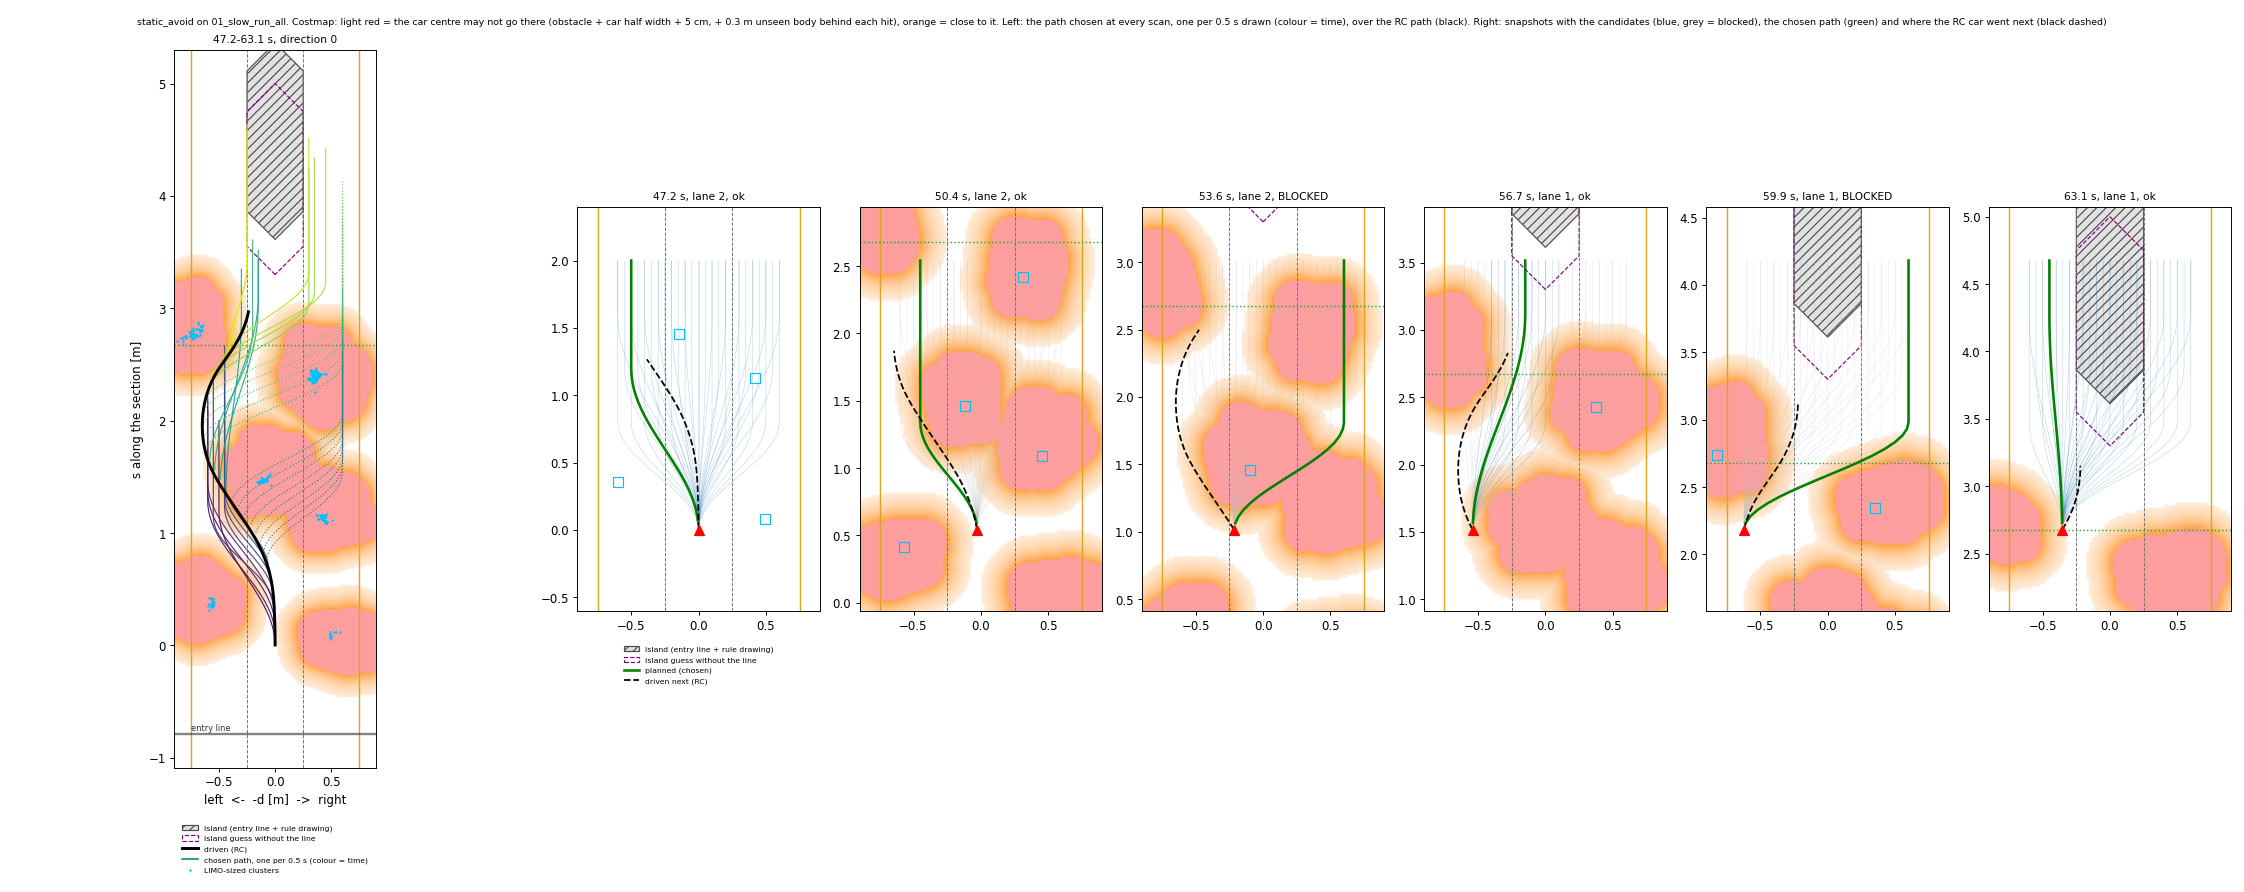
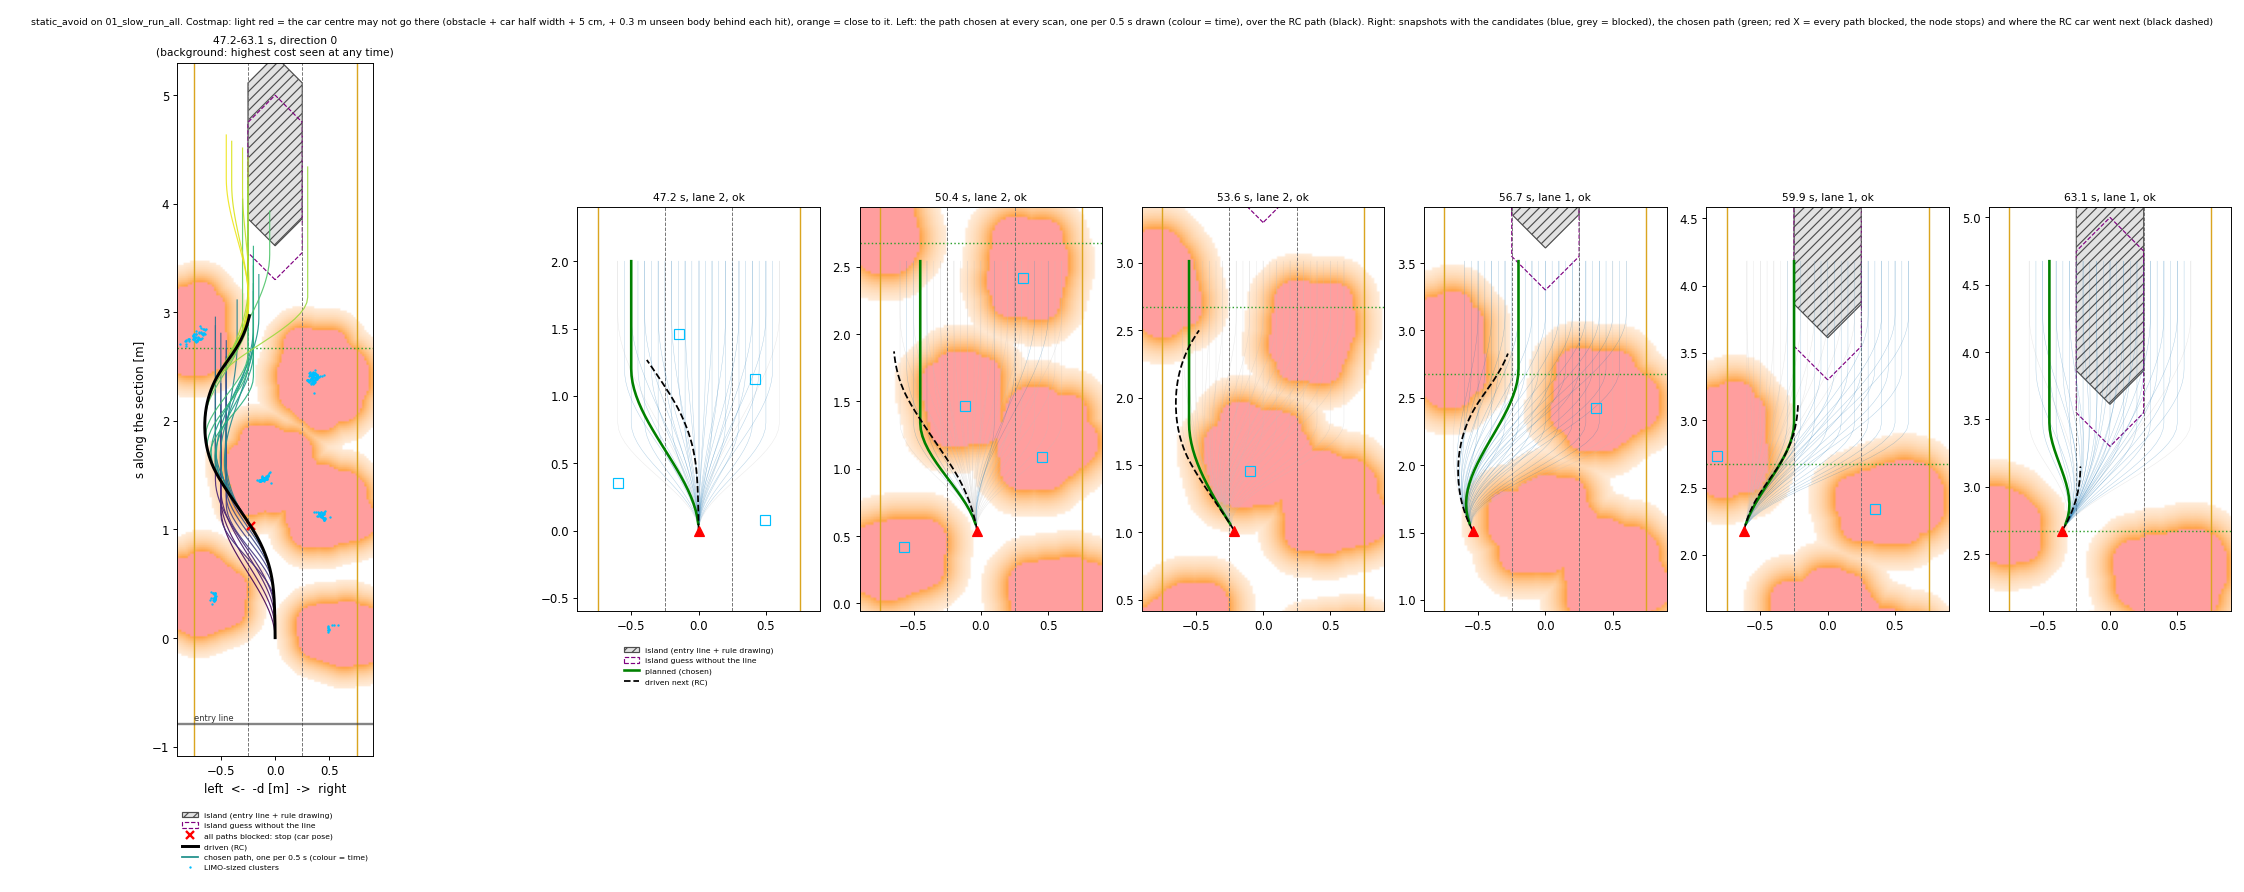
Enhance static obstacle avoidance parameters and replay tool functionality

diff --git a/ros2_ws/src/clothoid_lidar/clothoid_lidar/static_avoid.py b/ros2_ws/src/clothoid_lidar/clothoid_lidar/static_avoid.py
@@ -30,6 +30,7 @@ class AvoidParams:
     # geometry (m)
     lane_width: float = 0.50          # line centre to centre, our track; rules say 0.55
     car_half_width: float = 0.11      # LIMO 0.22 m wide
+    car_half_length: float = 0.16     # LIMO 0.32 m long, base_link in the middle
     footprint_offsets: Tuple[float, float, float] = (-0.1, 0.0, 0.1)  # circle centres along the car
     safety: float = 0.05              # extra clearance to obstacles
     line_margin: float = 0.03         # car side to yellow outer line
@@ -80,8 +81,19 @@ class AvoidParams:
     # safety margin (an obstacle seen late, or passed close), lethal cells there only cost, so the
     # car can still pick the way out instead of freezing
     lethal_free_start: float = 0.25
+    # A lethal cell only forbids a path if it is closer than the car needs to swerve clear of it at
+    # full lock; further ones are a large cost, the car can still turn away on a later plan (10 Hz).
+    # escape = sqrt(2 R y - y^2) + margin: R the rear-axle radius at full lock (car 7 / limo2
+    # measured 0.45~0.49 m with steering_scale 1.06), y the sideways move that clears a LIMO
+    # straight ahead (car half width + LIMO half width + safety), margin for the replanning period,
+    # the look-ahead and the car's front overhang.
+    min_turn_radius: float = 0.48
+    escape_offset: float = 0.30
+    escape_margin: float = 0.15
+    w_lethal_far: float = 400.0       # x share of path samples lethal beyond the escape distance
     w_obstacle: float = 1.0
     w_centre: float = 40.0            # per m^2 off the nearest lane centre
+    w_outer: float = 200.0            # per m (path mean) beyond the lane 1 / lane 3 centre, outwards
     w_lateral: float = 2.0            # per m of offset change
     w_short: float = 0.5              # per 1/m of transition length
     w_hysteresis: float = 4.0         # per m away from the last chosen end offset
@@ -305,11 +317,17 @@ def target_centre(direction: Optional[int], p: AvoidParams) -> Optional[float]:
     return None
 
 
+def escape_distance(p: AvoidParams) -> float:
+    """Path length within which a lethal cell cannot be swerved around any more (m)."""
+    r, y = p.min_turn_radius, min(p.escape_offset, p.min_turn_radius)
+    return math.sqrt(max(2.0 * r * y - y * y, 0.0)) + p.escape_margin
+
+
 def plan_paths(pose: Tuple[float, float, float], travelled: float, costmap: Costmap,
                direction: Optional[int], last_end: Optional[float], p: AvoidParams,
                keep_candidates: bool = False,
                island: Optional[Tuple[float, float]] = None) -> Plan:
-    s0, d0, _ = pose
+    s0, d0, psi = pose
     island = island or (p.island_s_min, p.island_s_max)
     w = p.lane_width
     ends = np.arange(-p.end_span * w, p.end_span * w + 1e-9, p.end_step)
@@ -317,10 +335,14 @@ def plan_paths(pose: Tuple[float, float, float], travelled: float, costmap: Cost
     E, Lt = np.meshgrid(ends, lengths, indexing='ij')
     E, Lt = E.ravel(), Lt.ravel()                                   # (P,)
     ds = np.arange(p.path_ds, p.horizon + 1e-9, p.path_ds)          # (S,)
-    u = np.clip(ds[None, :] / Lt[:, None], 0.0, 1.0)
-    d = d0 + (E - d0)[:, None] * (1.0 - np.cos(math.pi * u)) / 2.0  # (P, S)
-    slope = np.where(u < 1.0, (E - d0)[:, None] * math.pi / (2.0 * Lt[:, None])
-                     * np.sin(math.pi * u), 0.0)
+    # Every candidate leaves along the car's present heading (slope tan psi, as when it is half way
+    # through a lane change) and ends straight at E after Lt: a cubic Hermite in d(s), then straight.
+    m0 = math.tan(max(-1.0, min(1.0, psi)))
+    x = np.clip(ds[None, :] / Lt[:, None], 0.0, 1.0)
+    h00, h10, h01 = 2 * x ** 3 - 3 * x ** 2 + 1, x ** 3 - 2 * x ** 2 + x, -2 * x ** 3 + 3 * x ** 2
+    d = h00 * d0 + h10 * (Lt[:, None] * m0) + h01 * E[:, None]      # (P, S)
+    dh00, dh10, dh01 = 6 * x ** 2 - 6 * x, 3 * x ** 2 - 4 * x + 1, -6 * x ** 2 + 6 * x
+    slope = np.where(x < 1.0, (dh00 * d0 + dh01 * E[:, None]) / Lt[:, None] + dh10 * m0, 0.0)
     theta = np.arctan(slope)
     s = np.broadcast_to(s0 + ds[None, :], d.shape)
 
@@ -329,18 +351,31 @@ def plan_paths(pose: Tuple[float, float, float], travelled: float, costmap: Cost
     fs = s[..., None] + off * np.cos(theta)[..., None]
     fd = d[..., None] + off * np.sin(theta)[..., None]
     c = costmap.lookup(np.column_stack((fs.ravel(), fd.ravel()))).reshape(fs.shape)
-    lethal = ((c >= LETHAL) & (ds[None, :, None] > p.lethal_free_start)).any(axis=(1, 2))
-    obstacle = c.mean(axis=(1, 2))
+    hit = (c >= LETHAL).any(axis=2) & (ds[None, :] > p.lethal_free_start)     # (P, S)
+    near = ds[None, :] <= escape_distance(p)
+    lethal = (hit & near).any(axis=1)              # cannot be swerved around: forbidden
+    lethal_far = (hit & ~near).mean(axis=1)        # can still be swerved around later: cost
+    obstacle = np.where(c >= LETHAL, 100.0, c).mean(axis=(1, 2))
 
-    d_limit = 1.5 * w - p.car_half_width - p.line_margin
-    out_of_road = (np.abs(d) > d_limit).any(axis=1)
+    # yellow outer line, checked at the car's outer corners (a car at an angle reaches further out
+    # than its centre): no path may go further out than the line - margin, or than the corners are
+    # now when they are already beyond it (a hard limit from the first point would forbid coming
+    # back)
+    def corner(dd, th):
+        return np.abs(dd) + p.car_half_length * np.abs(np.sin(th)) + p.car_half_width * np.cos(th)
+    # turning back at full lock from heading psi still drifts out by R (1 - cos psi)
+    d_limit = max(1.5 * w - p.line_margin, float(corner(np.array(d0), np.array(psi)))
+                  + p.min_turn_radius * (1.0 - math.cos(psi)) + 0.01)
+    out_of_road = (corner(d, theta) > d_limit + 1e-6).any(axis=1)
+    beyond_outer = np.maximum(np.abs(d) - w, 0.0).mean(axis=1)   # past lane 1 / 3 centre
     on_island = ((s >= island[0]) & (s <= island[1])
                  & (np.abs(d) < w / 2.0)).mean(axis=1)
 
     centres = lane_centres(p)
     off_centre = np.min((d[..., None] - centres) ** 2, axis=2).mean(axis=1)
     cost = (p.w_obstacle * obstacle + p.w_centre * off_centre + p.w_lateral * np.abs(E - d0)
-            + p.w_short / Lt + p.w_island * on_island)
+            + p.w_short / Lt + p.w_island * on_island + p.w_lethal_far * lethal_far
+            + p.w_outer * beyond_outer)
     if last_end is not None:
         cost += p.w_hysteresis * np.abs(E - last_end)
     tc = target_centre(direction, p)

diff --git a/tools/static_avoid/replay_bag.py b/tools/static_avoid/replay_bag.py
@@ -267,11 +267,18 @@ def plot(path, rec, bag, direction, n_snaps):
     draw_island(ax, rec, p)
     t_first, t_last = plans[0]['t'], plans[-1]['t']
     step = max(1, int(round(0.5 / 0.1)))
+    stops = []
     for k in range(0, len(plans), step):
         pl = plans[k]
+        if not pl['plan'].feasible:       # every path blocked: the node sends a stop, no path
+            stops.append(pl['pose'])
+            continue
         colour = mcm.viridis((pl['t'] - t_first) / max(t_last - t_first, 1e-6))
-        style = '-' if pl['plan'].feasible else ':'
-        ax.plot(-pl['plan'].path[:, 1], pl['plan'].path[:, 0], style, color=colour, lw=1.0, alpha=0.9)
+        ax.plot(-pl['plan'].path[:, 1], pl['plan'].path[:, 0], '-', color=colour, lw=1.0, alpha=0.9)
+    if stops:
+        st = np.array(stops)
+        ax.plot(-st[:, 1], st[:, 0], 'x', color='red', ms=7, mew=2,
+                label='all paths blocked: stop (car pose)')
     m = tr[:, 0] <= t_last + 3.0
     ax.plot(-tr[m, 2], tr[m, 1], 'k-', lw=2.5, label='driven (RC)')
     ax.plot([], [], color=mcm.viridis(0.5), label='chosen path, one per 0.5 s (colour = time)')
@@ -279,13 +286,14 @@ def plot(path, rec, bag, direction, n_snaps):
         lm = np.array(rec['limos'])
         ax.plot(-lm[:, 1], lm[:, 0], '.', color='deepskyblue', ms=2, label='LIMO-sized clusters')
     ax.set_xlim(-dmax, dmax)
-    smax = max(tr[m, 1].max(), max(pl['plan'].path[-1, 0] for pl in plans))
+    smax = max([tr[m, 1].max()] + [pl['plan'].path[-1, 0] for pl in plans if pl['plan'].feasible])
     lo = min(-0.5, rec['entry_s'] - 0.3) if rec['entry_s'] is not None else -0.5
     ax.set_ylim(lo, min(p.grid_s_max, max(smax + 0.2, p.island_s_max + 0.3)))
     ax.set_xlabel('left  <-  -d [m]  ->  right')
     ax.set_ylabel('s along the section [m]')
     ax.legend(fontsize=6.5, loc='upper center', bbox_to_anchor=(0.5, -0.07), ncol=1, frameon=False)
-    ax.set_title(f'{t_first:.1f}-{t_last:.1f} s, direction {direction}', fontsize=9)
+    ax.set_title(f'{t_first:.1f}-{t_last:.1f} s, direction {direction}\n(background: highest cost '
+                 f'seen at any time)', fontsize=9)
 
     for col, k in enumerate(idx):
         sh = plans[k]
@@ -297,11 +305,14 @@ def plot(path, rec, bag, direction, n_snaps):
         for cand, cst in sh['plan'].candidates:
             ax.plot(-cand[:, 1], cand[:, 0], color='0.75' if not np.isfinite(cst) else 'tab:blue',
                     lw=0.4, alpha=0.35)
-        ax.plot(-sh['plan'].path[:, 1], sh['plan'].path[:, 0], color='green', lw=2.2,
-                label='planned (chosen)')
+        s0, d0, _ = sh['pose']
+        if sh['plan'].feasible:
+            ax.plot(-sh['plan'].path[:, 1], sh['plan'].path[:, 0], color='green', lw=2.2,
+                    label='planned (chosen)')
+        else:
+            ax.plot(-d0, s0, 'x', color='red', ms=16, mew=3, label='all blocked: stop')
         later = tr[(tr[:, 0] >= sh['t']) & (tr[:, 0] <= sh['t'] + 8.0)]
         ax.plot(-later[:, 2], later[:, 1], 'k--', lw=1.5, label='driven next (RC)')
-        s0, d0, _ = sh['pose']
         ax.plot(-d0, s0, 'r^', ms=9)
         if len(sh['limos']):
             ax.plot(-sh['limos'][:, 1], sh['limos'][:, 0], 's', color='deepskyblue', mfc='none',
@@ -309,7 +320,7 @@ def plot(path, rec, bag, direction, n_snaps):
         ax.set_xlim(-dmax, dmax)
         ax.set_ylim(s0 - 0.6, s0 + 2.4)
         ax.set_title(f'{sh["t"]:.1f} s, lane {sh["lane"]}, '
-                     f'{"ok" if sh["plan"].feasible else "BLOCKED"}', fontsize=9)
+                     f'{"ok" if sh["plan"].feasible else "STOP (all paths blocked)"}', fontsize=9)
         if col == 0:
             ax.legend(fontsize=6.5, loc='upper center', bbox_to_anchor=(0.5, -0.07),
                       frameon=False)
@@ -317,8 +328,8 @@ def plot(path, rec, bag, direction, n_snaps):
                  'centre may not go there (obstacle + car half width + 5 cm, + 0.3 m unseen body '
                  'behind each hit), orange = close to it. Left: the path chosen at every scan, one '
                  'per 0.5 s drawn (colour = time), over the RC path (black). Right: snapshots with '
-                 'the candidates (blue, grey = blocked), the chosen path (green) and where the RC car '
-                 'went next (black dashed)', fontsize=8)
+                 'the candidates (blue, grey = blocked), the chosen path (green; red X = every path '
+                 'blocked, the node stops) and where the RC car went next (black dashed)', fontsize=8)
     fig.tight_layout()
     fig.savefig(path, dpi=85)
     print('saved', path)

diff --git a/docs/STATIC_AVOID.md b/docs/STATIC_AVOID.md
@@ -23,7 +23,7 @@
 | 섬 위치 | 우선순위: 차선 쪽 섬 신호(`island_topic`, 형식 미정) → 입구 선 + 4.40~6.15 m(규정집 4쪽 도면 축척) → 추정값(켜진 곳 + 3.3 m) |
 | 자세 | `/odom` 속도와 `/imu` yaw로 추측 항법을 한다(메시지 스탬프 기준). `/odom` yaw는 쓰지 않는다. 스캔은 그 스캔 시각의 자세로 붙인다 |
 | costmap | 2 cm 격자. 맞은 칸 +2, 빔이 지나간 칸 −1(반사 없는 빔은 2 m까지), 3 이상이면 점유. 맞은 점 뒤 0.3 m를 가린 차체로 막는다. 차 반폭 + 5 cm 안은 치명, 0.35 m까지 줄어드는 비용 |
-| 로컬 패스 | 75개 후보 = 끝 가로 위치(±1.2w, 5 cm 간격) × 전환 길이(0.8 / 1.2 / 1.6 m). 비용은 장애물, 차로 중앙에서 벗어난 정도, 가로 이동, 짧은 전환, 직전 선택과의 차이, 섬(약한 비용), `/direction_flag` 쪽 차로(약한 비용). 노란 선 밖과 치명 칸은 금지. 경로의 처음 0.25 m는 치명이어도 비용으로만 본다(이미 여유 안에 있을 때 빠져나오도록) |
+| 로컬 패스 | 75개 후보 = 끝 가로 위치(±1.2w, 5 cm 간격) × 전환 길이(0.8 / 1.2 / 1.6 m). 후보는 **차의 지금 헤딩으로 출발**해 끝 위치에서 곧게 끝나는 3차 곡선이다. **금지는 최대 조향으로도 못 피하는 거리(0.59 m = √(2Ry−y²) + 0.15, R 0.48, y 0.30) 안의 치명 칸뿐**이고, 그보다 먼 치명 칸은 큰 비용이다. 노란 선은 차 **모서리** 기준으로 금지하며, 이미 넘어 있으면 최대 조향으로 돌아 나오는 만큼(R(1−cos ψ))까지 허용한다. 비용은 장애물, 차로 중앙에서 벗어난 정도, 바깥 차로 중심 너머(넘침 방지), 가로 이동, 짧은 전환, 직전 선택과의 차이, 섬(약하게), `/direction_flag` 쪽(약하게) |
 | 차로 인지 | 지금 차로 = d를 w로 나눠 반올림(`/avoid/lane` 1~3) |
 | 추종 | pure pursuit(lookahead 0.45 m, 후축 기준), 20 Hz. 매 주기 IMU 자세로 다시 계산해 조향 오차를 폐루프로 보정한다 |
 | 넘기기 | 다음 둘 중 먼저 오는 쪽에서 Twist(0)를 1회 보내고 조용해진다. ① 섬 앞끝이 1.0 m 안이고, 섬까지 모든 차로에 장애물이 없을 때. ② 3 m 이상 달렸고, 지금 차로(어느 차로든) 중앙 ±10 cm, 헤딩 ±10°, 앞 2 m 모든 차로가 비었을 때. 7 m를 넘으면 그냥 넘긴다 |
@@ -85,18 +85,18 @@ python3 tools/static_avoid/replay_bag.py <bag> --from 41 --to 80 --direction 0 -
 - **입구 선:** x = 0이다. 섬은 입구 뒤 4.35~6.10 m다.
 - **`lane_main` 대역:** 켜지기 전에는 가까운 차로 중앙을 따른다. 넘긴 뒤에는 표지판 방향의 A/B 차로로 간다(방향이 없으면 가까운 1·3차선).
 
-| 시나리오 | 최소 간격 | 바깥 끝 \|y\| (노란 선 0.75) | 넘긴 위치·차로 | 끝난 차로 |
+| 시나리오 | 최소 간격 | 차 모서리 \|y\| 최대 (노란 선 0.75) | 넘긴 위치·차로 | 끝난 차로 |
 |---|---|---|---|---|
-| 2차선 LIMO 1대, A | 18 cm | 0.63 | 2.8 m, 1차선(장애물 끝남) | 1 |
-| 같은 배치, B | 20 cm | 0.68 | 2.8 m, 3차선 | 3 |
-| 같은 배치, 방향 없음 | 18 cm | 0.63 | 2.8 m, 1차선 | 1 |
-| 엇갈린 4대, B | 20 cm | 0.67 | 섬 0.22 m 앞, 3차선 | 3 |
-| 두 줄(2·3차선), A | 18 cm | 0.63 | 3.0 m, 1차선 | 1 |
-| 차로 폭 0.55 + 시작 헤딩 3°, A | 20 cm | 0.68 | 2.8 m, 1차선 | 1 |
-| 세 차로 모두 막힘 → 6초 뒤 3차선 열림, B | 20 cm | 0.68 | 3.0 m, 3차선(그동안 정지) | 3 |
-| 섬 직전 3차선에 LIMO, B | 16 cm | 0.66 | 섬 0.69 m 앞, 2차선 | 3 |
-| 표지판이 2.2 m에서 처음 보임, B(직접 넣음, YOLO 아님) | 18 cm | 0.67 | 섬 0.99 m 앞, 2차선 | 3 |
-| 입구 선을 못 봄, A | 18 cm | 0.63 | 섬(추정) 0.99 m 앞, 1차선 | 1 |
+| 2차선 LIMO 1대, A | 21 cm | 0.65 | 2.8 m, 1차선(장애물 끝남) | 1 |
+| 같은 배치, B | 24 cm | 0.67 | 2.8 m, 3차선 | 3 |
+| 같은 배치, 방향 없음 | 21 cm | 0.65 | 2.8 m, 1차선 | 1 |
+| 엇갈린 4대, B | 24 cm | 0.67 | 섬 0.22 m 앞, 3차선 | 3 |
+| 두 줄(2·3차선), A | 21 cm | 0.65 | 3.0 m, 1차선 | 1 |
+| 차로 폭 0.55 + 시작 헤딩 3°, A | 22 cm | 0.70 | 2.8 m, 1차선 | 1 |
+| 세 차로 모두 막힘 → 6초 뒤 3차선 열림, B | 12 cm | 0.67 | 3.0 m, 3차선(그동안 정지) | 3 |
+| 섬 직전 3차선에 LIMO, B | 14 cm | 0.67 | 섬 0.70 m 앞, 2차선 | 3 |
+| 표지판이 2.2 m에서 처음 보임, B(직접 넣음, YOLO 아님) | 21 cm | 0.66 | 섬 0.99 m 앞, 2차선 | 3 |
+| 입구 선을 못 봄, A | 21 cm | 0.65 | 섬(추정) 0.99 m 앞, 1차선 | 1 |
 
 - 모든 경우 섬 구간에서 2차선에 들어가지 않았다. 넘긴 뒤 A/B로 가는 것은 대역이 한 일이고, 실제로는 `lane_main`의 규칙에 달렸다.
 - 콘, 주차, mission 정지 중에는 켜지지 않았다. 섬 위치(지난 구간 안)에서는 새로 켜지지 않았다.
@@ -111,12 +111,14 @@ python3 tools/static_avoid/replay_bag.py <bag> --from 41 --to 80 --direction 0 -
 ### 1105 bag 재생 (7호차, 사람이 RC로 몰았고 장애물은 빨간 콘 뭉치, 표지판 없음)
 사람은 구간 전체를 보고 몰았으므로 그 경로를 기준으로 삼는다. 재생은 열린 루프다. 매 스캔 "사람이 차를 둔 자리"에서 회피가 짠 경로를 사람이 간 경로와 비교한다. 장애물이 콘이라 콘 플래그를 끄고(`--ignore-cone`) 돌렸다. 방향은 사람이 섬에서 들어간 차로(01 A, 02 B, 03 A, 04 A)로 줬다.
 
-| bag | 켜짐 (주행 거리) | 입구 선 | 섬 (회피 좌표) | 넘기기 | 1 m 앞 차이 (중앙값 / 90%) |
-|---|---|---|---|---|---|
-| 01 | 47.2 s (14.73 m) | 0.79 m 전 | 3.61 m | 섬 0.94 m 앞, 1차선 | 21 / 62 cm |
-| 02 | 55.9 s (14.80 m) | 0.80 m 전 | 3.60 m | 섬 0.99 m 앞, 2차선 | 12 / 23 cm |
-| 03 | 43.2 s (14.71 m) | 0.83 m 전 | 3.57 m | 섬 0.62 m 앞, 2차선 | 7 / 24 cm |
-| 04 | 40.0 s (14.77 m) | 0.66 m 전 | 3.74 m | 섬 0.89 m 앞, 2차선 | 11 / 30 cm |
+| bag | 켜짐 (주행 거리) | 입구 선 | 섬 (회피 좌표) | 넘기기 | 1 m 앞 차이 (중앙값 / 90%) | 전부 막힘 |
+|---|---|---|---|---|---|---|
+| 01 | 47.2 s (14.73 m) | 0.79 m 전 | 3.61 m | 섬 0.94 m 앞, 1차선 | 13 / 26 cm | 6 / 160 |
+| 02 | 55.9 s (14.80 m) | 0.80 m 전 | 3.60 m | 섬 0.99 m 앞, 2차선 | 14 / 22 cm | 0 / 129 |
+| 03 | 43.2 s (14.71 m) | 0.83 m 전 | 3.57 m | 섬 0.62 m 앞, 2차선 | 10 / 27 cm | 0 / 96 |
+| 04 | 40.0 s (14.77 m) | 0.66 m 전 | 3.74 m | 섬 0.89 m 앞, 2차선 | 2 / 13 cm | 0 / 140 |
+
+- 2026-11-08 경로 모양을 고치기 전(직진 출발, 2 m 전체 금지 판정, 차 중심 기준 노란 선)에는 "전부 막힘"이 64 / 46 / 14 / 33개였다. 막힌 순간에도 차 옆과 장애물은 21~27 cm 떨어져 있었다. 원인은 셋이었다: 엇갈린 LIMO 너머 1.3~1.6 m의 장애물이 모든 후보를 금지시킨 것, 차가 25~35° 꺾여 있는데 후보가 직진으로 출발한 것, 사람이 노란 선에 붙였을 때 첫 점부터 "도로 밖"이 된 것. 이전 그림은 막힌 순간에도 아무 후보나 그려서 빨간 구역을 가로지르는 선으로 보였다(그림 버그, 지금은 빨간 X로 정지를 표시).
 
 - 콘 플래그를 끄고 한 바퀴 전체를 돌려도, 장애물 구간 밖에서 켜진 것은 콘 뭉치를 세워 둔 주차 구역(32.3~32.5 m)뿐이다. 대회에서는 `/parking_flag`가 막는다.
 - 실제 노드(`avoid.launch.py`, 2배속)로 01을 두 번 재생했다. 두 번 모두 같은 결과였다: 입구 선 통과 → 0.88 m 뒤 시작 → 섬 3.51 m(입구 선 기준) → 섬 앞에서 넘김. `/avoid/cues`도 나왔다.
@@ -125,7 +127,6 @@ python3 tools/static_avoid/replay_bag.py <bag> --from 41 --to 80 --direction 0 -
   - 빗금 육각형은 입구 선 기준 섬, 보라 점선은 추정 섬, 초록 점선은 넘긴 위치다.
   - 왼쪽은 0.5 s마다 고른 경로(색 = 시각)를 사람 경로(검정) 위에 겹친 것이다.
   - 오른쪽은 순간 6장이다. 파랑은 후보, 회색은 막힌 후보, 초록은 고른 경로, 검은 점선은 사람이 그다음에 간 길이다.
-- **"막힘" 판정**은 대부분 열린 루프 재생 탓이다. 사람은 우리 여유값(장애물 5 cm, 노란 선 3 cm)보다 바짝 붙어 지나갔다.
 
 ## 남은 것
 - **실제 LIMO 스캔:** 정차 LIMO를 0.5 / 1.0 / 1.5 m에서 뒤, 옆, 비스듬히 녹화한다. `limo_extractor`의 폭과 빔 수를 정하는 데 쓴다.
